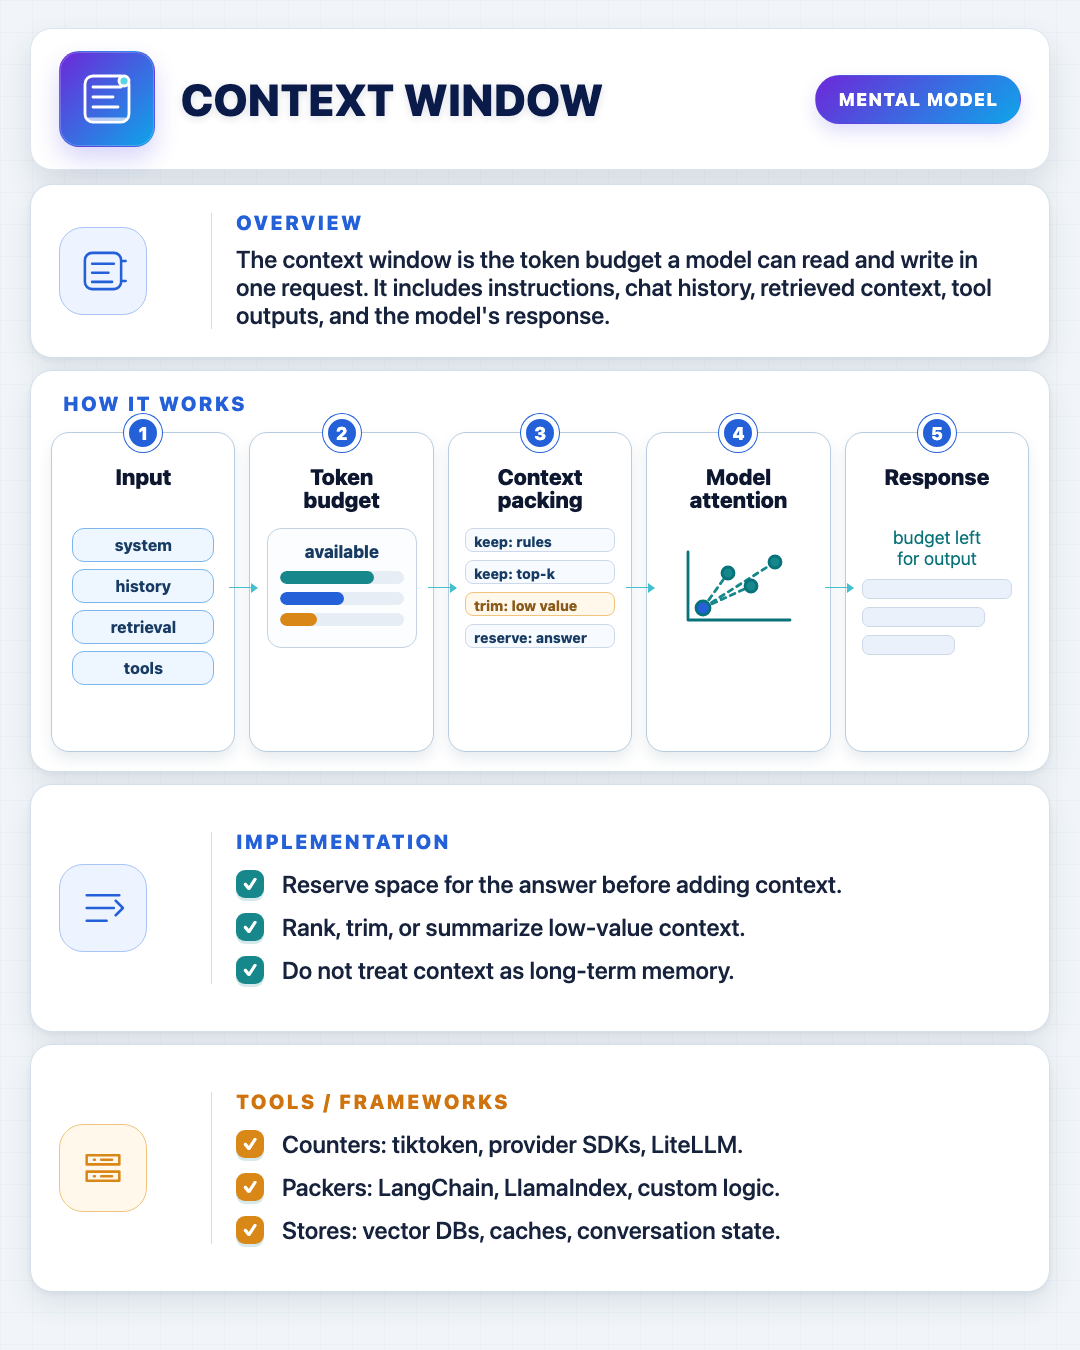
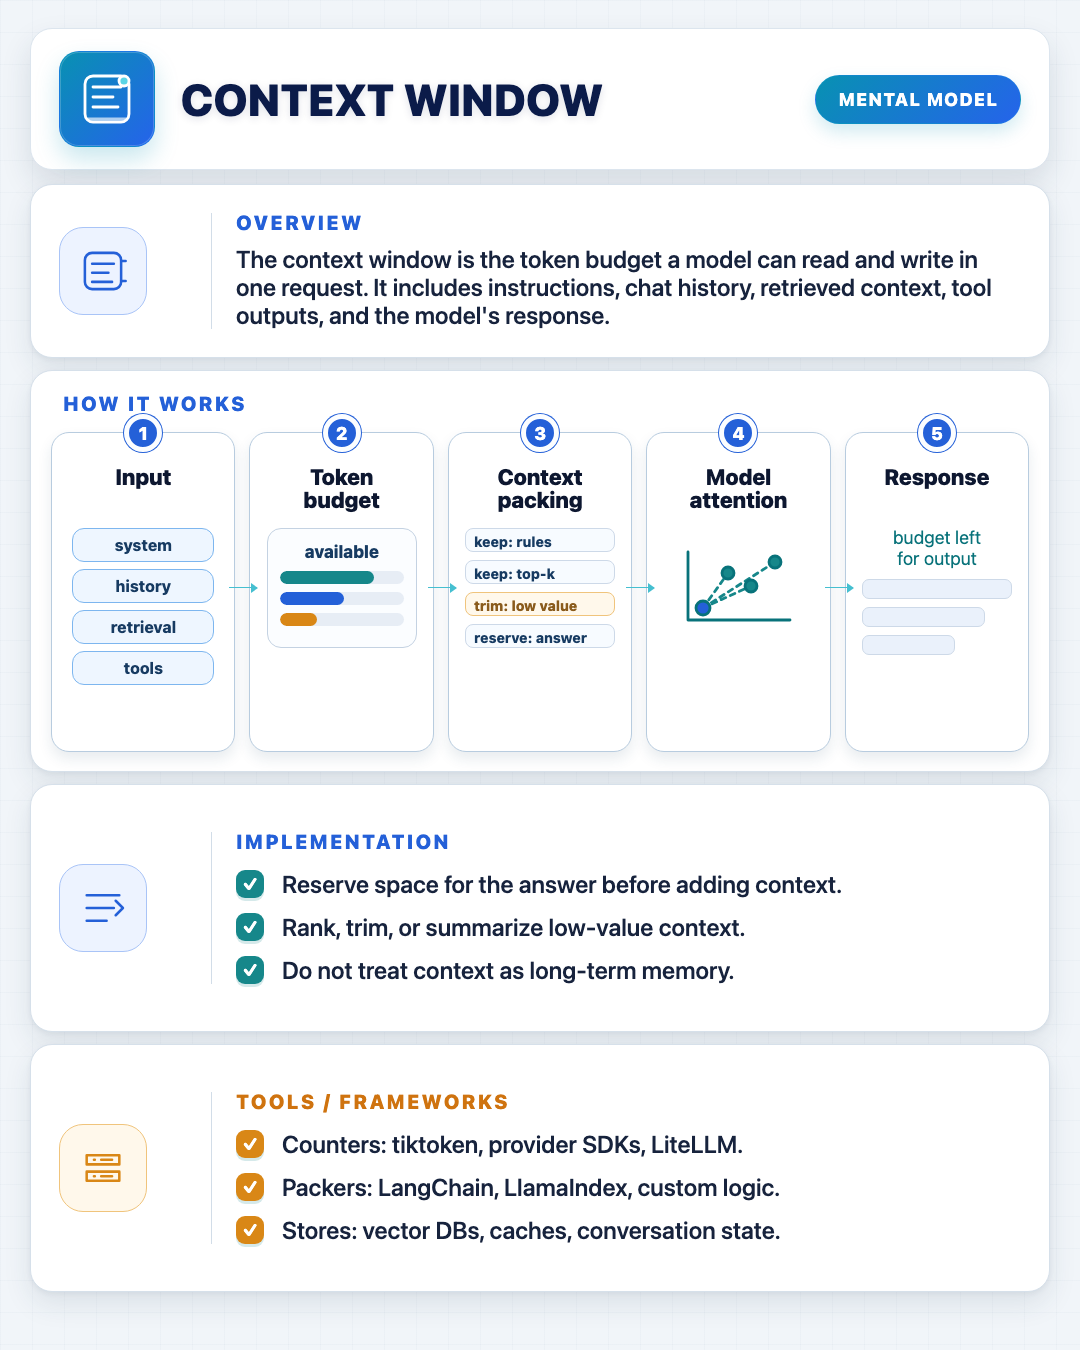
Fix category-based header palettes

Changed region(s): [[0.7333, 0.0311, 0.9472, 0.0933], [0.0306, 0.0311, 0.1528, 0.1244]]

diff --git a/series/ai-engineering-concepts/templates/rag-card.html b/series/ai-engineering-concepts/templates/rag-card.html
@@ -11,10 +11,10 @@
   .card { position: relative; width: 1080px; height: 1350px; padding: 28px 30px; overflow: hidden; background-color: #f1f5f9; background-image: linear-gradient(rgba(24, 78, 119, .022) 1px, transparent 1px), linear-gradient(90deg, rgba(24, 78, 119, .022) 1px, transparent 1px); background-size: 32px 32px; }
   .header, .panel { border: 1px solid #d6e0ea; border-radius: 22px; background: #ffffff; }
   .header { height: 142px; padding: 22px 28px; display: flex; align-items: center; gap: 26px; color: #0d1730; background: #ffffff; border-color: #dce5ee; box-shadow: 0 14px 30px rgba(31, 54, 78, .13), inset 0 1px 0 rgba(255,255,255,.9); }
-  .concept-icon { width: 96px; height: 96px; flex: 0 0 auto; display: grid; place-items: center; border: 1px solid rgba(236,72,153,.24); border-radius: 20px; background: linear-gradient(135deg, #db2777 0%, #f97316 100%); color: #ffffff; box-shadow: 0 12px 24px rgba(219, 39, 119, .22), inset 0 0 0 1px rgba(255,255,255,.20); }
+  .concept-icon { width: 96px; height: 96px; flex: 0 0 auto; display: grid; place-items: center; border: 1px solid rgba(14,165,233,.24); border-radius: 20px; background: linear-gradient(135deg, #0891b2 0%, #2563eb 100%); color: #ffffff; box-shadow: 0 12px 24px rgba(8, 145, 178, .22), inset 0 0 0 1px rgba(255,255,255,.20); }
   .concept-icon svg { width: 72px; height: 72px; }
   h1 { margin: 0; font-size: 52px; line-height: .96; letter-spacing: .01em; font-weight: 850; color: #0b1b49; text-shadow: 0 2px 8px rgba(11,27,73,.12); }
-  .badge { margin-left: auto; padding: 13px 22px; border: 1px solid rgba(236,72,153,.18); border-radius: 999px; color: #ffffff; background: linear-gradient(135deg, #db2777 0%, #f97316 100%); font-size: 18px; font-weight: 800; letter-spacing: .08em; white-space: nowrap; box-shadow: 0 8px 18px rgba(219, 39, 119, .18); }
+  .badge { margin-left: auto; padding: 13px 22px; border: 1px solid rgba(14,165,233,.18); border-radius: 999px; color: #ffffff; background: linear-gradient(135deg, #0891b2 0%, #2563eb 100%); font-size: 18px; font-weight: 800; letter-spacing: .08em; white-space: nowrap; box-shadow: 0 8px 18px rgba(8, 145, 178, .18); }
   .stack { margin-top: 14px; display: grid; gap: 12px; }
   .panel { position: relative; box-shadow: 0 12px 28px rgba(31, 54, 78, .10), 0 2px 5px rgba(31, 54, 78, .06); }
   .section-title { margin: 0; color: #2460d8; font-size: 20px; line-height: 1; font-weight: 850; letter-spacing: .13em; }

diff --git a/series/ai-engineering-concepts/templates/tool-calling-card.html b/series/ai-engineering-concepts/templates/tool-calling-card.html
@@ -11,10 +11,10 @@
   .card { position: relative; width: 1080px; height: 1350px; padding: 28px 30px; overflow: hidden; background-color: #f1f5f9; background-image: linear-gradient(rgba(24, 78, 119, .022) 1px, transparent 1px), linear-gradient(90deg, rgba(24, 78, 119, .022) 1px, transparent 1px); background-size: 32px 32px; }
   .header, .panel { border: 1px solid #d6e0ea; border-radius: 22px; background: #ffffff; }
   .header { height: 142px; padding: 22px 28px; display: flex; align-items: center; gap: 26px; color: #0d1730; background: #ffffff; border-color: #dce5ee; box-shadow: 0 14px 30px rgba(31, 54, 78, .13), inset 0 1px 0 rgba(255,255,255,.9); }
-  .concept-icon { width: 96px; height: 96px; flex: 0 0 auto; display: grid; place-items: center; border: 1px solid rgba(20,184,166,.24); border-radius: 20px; background: linear-gradient(135deg, #0f766e 0%, #10b981 100%); color: #ffffff; box-shadow: 0 12px 24px rgba(15, 118, 110, .22), inset 0 0 0 1px rgba(255,255,255,.20); }
+  .concept-icon { width: 96px; height: 96px; flex: 0 0 auto; display: grid; place-items: center; border: 1px solid rgba(14,165,233,.24); border-radius: 20px; background: linear-gradient(135deg, #0891b2 0%, #2563eb 100%); color: #ffffff; box-shadow: 0 12px 24px rgba(8, 145, 178, .22), inset 0 0 0 1px rgba(255,255,255,.20); }
   .concept-icon svg { width: 72px; height: 72px; }
   h1 { margin: 0; font-size: 46px; line-height: .96; letter-spacing: .01em; font-weight: 850; color: #0b1b49; text-shadow: 0 2px 8px rgba(11,27,73,.12); }
-  .badge { margin-left: auto; padding: 13px 22px; border: 1px solid rgba(20,184,166,.18); border-radius: 999px; color: #ffffff; background: linear-gradient(135deg, #0f766e 0%, #10b981 100%); font-size: 18px; font-weight: 800; letter-spacing: .08em; white-space: nowrap; box-shadow: 0 8px 18px rgba(15, 118, 110, .18); }
+  .badge { margin-left: auto; padding: 13px 22px; border: 1px solid rgba(14,165,233,.18); border-radius: 999px; color: #ffffff; background: linear-gradient(135deg, #0891b2 0%, #2563eb 100%); font-size: 18px; font-weight: 800; letter-spacing: .08em; white-space: nowrap; box-shadow: 0 8px 18px rgba(8, 145, 178, .18); }
   .stack { margin-top: 14px; display: grid; gap: 12px; }
   .panel { position: relative; box-shadow: 0 12px 28px rgba(31, 54, 78, .10), 0 2px 5px rgba(31, 54, 78, .06); }
   .section-title { margin: 0; color: #2460d8; font-size: 20px; line-height: 1; font-weight: 850; letter-spacing: .13em; }

diff --git a/series/ai-engineering-concepts/templates/context-window-card.html b/series/ai-engineering-concepts/templates/context-window-card.html
@@ -11,10 +11,10 @@
   .card { position: relative; width: 1080px; height: 1350px; padding: 28px 30px; overflow: hidden; background-color: #f1f5f9; background-image: linear-gradient(rgba(24, 78, 119, .022) 1px, transparent 1px), linear-gradient(90deg, rgba(24, 78, 119, .022) 1px, transparent 1px); background-size: 32px 32px; }
   .header, .panel { border: 1px solid #d6e0ea; border-radius: 22px; background: #ffffff; }
   .header { height: 142px; padding: 22px 28px; display: flex; align-items: center; gap: 26px; color: #0d1730; background: #ffffff; border-color: #dce5ee; box-shadow: 0 14px 30px rgba(31, 54, 78, .13), inset 0 1px 0 rgba(255,255,255,.9); }
-  .concept-icon { width: 96px; height: 96px; flex: 0 0 auto; display: grid; place-items: center; border: 1px solid rgba(99,102,241,.24); border-radius: 20px; background: linear-gradient(135deg, #6d28d9 0%, #0ea5e9 100%); color: #ffffff; box-shadow: 0 12px 24px rgba(79, 70, 229, .22), inset 0 0 0 1px rgba(255,255,255,.20); }
+  .concept-icon { width: 96px; height: 96px; flex: 0 0 auto; display: grid; place-items: center; border: 1px solid rgba(14,165,233,.24); border-radius: 20px; background: linear-gradient(135deg, #0891b2 0%, #2563eb 100%); color: #ffffff; box-shadow: 0 12px 24px rgba(8, 145, 178, .22), inset 0 0 0 1px rgba(255,255,255,.20); }
   .concept-icon svg { width: 72px; height: 72px; }
   h1 { margin: 0; font-size: 44px; line-height: .96; letter-spacing: .01em; font-weight: 850; color: #0b1b49; text-shadow: 0 2px 8px rgba(11,27,73,.12); }
-  .badge { margin-left: auto; padding: 13px 22px; border: 1px solid rgba(99,102,241,.18); border-radius: 999px; color: #ffffff; background: linear-gradient(135deg, #6d28d9 0%, #0ea5e9 100%); font-size: 18px; font-weight: 800; letter-spacing: .08em; white-space: nowrap; box-shadow: 0 8px 18px rgba(79, 70, 229, .18); }
+  .badge { margin-left: auto; padding: 13px 22px; border: 1px solid rgba(14,165,233,.18); border-radius: 999px; color: #ffffff; background: linear-gradient(135deg, #0891b2 0%, #2563eb 100%); font-size: 18px; font-weight: 800; letter-spacing: .08em; white-space: nowrap; box-shadow: 0 8px 18px rgba(8, 145, 178, .18); }
   .stack { margin-top: 14px; display: grid; gap: 12px; }
   .panel { position: relative; box-shadow: 0 12px 28px rgba(31, 54, 78, .10), 0 2px 5px rgba(31, 54, 78, .06); }
   .section-title { margin: 0; color: #2460d8; font-size: 20px; line-height: 1; font-weight: 850; letter-spacing: .13em; }

diff --git a/series/ai-engineering-concepts/templates/tokenization-card.html b/series/ai-engineering-concepts/templates/tokenization-card.html
@@ -11,10 +11,10 @@
   .card { position: relative; width: 1080px; height: 1350px; padding: 28px 30px; overflow: hidden; background-color: #f1f5f9; background-image: linear-gradient(rgba(24, 78, 119, .022) 1px, transparent 1px), linear-gradient(90deg, rgba(24, 78, 119, .022) 1px, transparent 1px); background-size: 32px 32px; }
   .header, .panel { border: 1px solid #d6e0ea; border-radius: 22px; background: #ffffff; }
   .header { height: 142px; padding: 22px 28px; display: flex; align-items: center; gap: 26px; color: #0d1730; background: #ffffff; border-color: #dce5ee; box-shadow: 0 14px 30px rgba(31, 54, 78, .13), inset 0 1px 0 rgba(255,255,255,.9); }
-  .concept-icon { width: 96px; height: 96px; flex: 0 0 auto; display: grid; place-items: center; border: 1px solid rgba(245,158,11,.24); border-radius: 20px; background: linear-gradient(135deg, #d97706 0%, #f59e0b 100%); color: #ffffff; box-shadow: 0 12px 24px rgba(217, 119, 6, .22), inset 0 0 0 1px rgba(255,255,255,.20); }
+  .concept-icon { width: 96px; height: 96px; flex: 0 0 auto; display: grid; place-items: center; border: 1px solid rgba(14,165,233,.24); border-radius: 20px; background: linear-gradient(135deg, #0891b2 0%, #2563eb 100%); color: #ffffff; box-shadow: 0 12px 24px rgba(8, 145, 178, .22), inset 0 0 0 1px rgba(255,255,255,.20); }
   .concept-icon svg { width: 72px; height: 72px; }
   h1 { margin: 0; font-size: 46px; line-height: .96; letter-spacing: .01em; font-weight: 850; color: #0b1b49; text-shadow: 0 2px 8px rgba(11,27,73,.12); }
-  .badge { margin-left: auto; padding: 13px 22px; border: 1px solid rgba(245,158,11,.18); border-radius: 999px; color: #ffffff; background: linear-gradient(135deg, #d97706 0%, #f59e0b 100%); font-size: 18px; font-weight: 800; letter-spacing: .08em; white-space: nowrap; box-shadow: 0 8px 18px rgba(217, 119, 6, .18); }
+  .badge { margin-left: auto; padding: 13px 22px; border: 1px solid rgba(14,165,233,.18); border-radius: 999px; color: #ffffff; background: linear-gradient(135deg, #0891b2 0%, #2563eb 100%); font-size: 18px; font-weight: 800; letter-spacing: .08em; white-space: nowrap; box-shadow: 0 8px 18px rgba(8, 145, 178, .18); }
   .stack { margin-top: 14px; display: grid; gap: 12px; }
   .panel { position: relative; box-shadow: 0 12px 28px rgba(31, 54, 78, .10), 0 2px 5px rgba(31, 54, 78, .06); }
   .section-title { margin: 0; color: #2460d8; font-size: 20px; line-height: 1; font-weight: 850; letter-spacing: .13em; }

diff --git a/series/ai-engineering-concepts/templates/context-engineering-card.html b/series/ai-engineering-concepts/templates/context-engineering-card.html
@@ -47,11 +47,11 @@
     flex: 0 0 auto;
     display: grid;
     place-items: center;
-    border: 1px solid rgba(99,102,241,.24);
+    border: 1px solid rgba(20,184,166,.24);
     border-radius: 20px;
-    background: linear-gradient(135deg, #6d28d9 0%, #0ea5e9 100%);
+    background: linear-gradient(135deg, #0f766e 0%, #10b981 100%);
     color: #ffffff;
-    box-shadow: 0 12px 24px rgba(79, 70, 229, .22), inset 0 0 0 1px rgba(255,255,255,.20);
+    box-shadow: 0 12px 24px rgba(15, 118, 110, .22), inset 0 0 0 1px rgba(255,255,255,.20);
   }
   .concept-icon svg { width: 72px; height: 72px; }
   h1 {
@@ -66,15 +66,15 @@
   .badge {
     margin-left: auto;
     padding: 13px 22px;
-    border: 1px solid rgba(99,102,241,.18);
+    border: 1px solid rgba(20,184,166,.18);
     border-radius: 999px;
     color: #ffffff;
-    background: linear-gradient(135deg, #6d28d9 0%, #0ea5e9 100%);
+    background: linear-gradient(135deg, #0f766e 0%, #10b981 100%);
     font-size: 18px;
     font-weight: 800;
     letter-spacing: .08em;
     white-space: nowrap;
-    box-shadow: 0 8px 18px rgba(79, 70, 229, .18);
+    box-shadow: 0 8px 18px rgba(15, 118, 110, .18);
   }
   .stack { margin-top: 14px; display: grid; gap: 12px; }
   .panel {

diff --git a/series/ai-engineering-concepts/templates/structured-outputs-card.html b/series/ai-engineering-concepts/templates/structured-outputs-card.html
@@ -47,11 +47,11 @@
     flex: 0 0 auto;
     display: grid;
     place-items: center;
-    border: 1px solid rgba(14,165,233,.24);
+    border: 1px solid rgba(20,184,166,.24);
     border-radius: 20px;
-    background: linear-gradient(135deg, #0891b2 0%, #2563eb 100%);
+    background: linear-gradient(135deg, #0f766e 0%, #10b981 100%);
     color: #ffffff;
-    box-shadow: 0 12px 24px rgba(8, 145, 178, .22), inset 0 0 0 1px rgba(255,255,255,.20);
+    box-shadow: 0 12px 24px rgba(15, 118, 110, .22), inset 0 0 0 1px rgba(255,255,255,.20);
   }
   .concept-icon svg { width: 72px; height: 72px; }
   h1 {
@@ -66,15 +66,15 @@
   .badge {
     margin-left: auto;
     padding: 13px 22px;
-    border: 1px solid rgba(14,165,233,.18);
+    border: 1px solid rgba(20,184,166,.18);
     border-radius: 999px;
     color: #ffffff;
-    background: linear-gradient(135deg, #0891b2 0%, #2563eb 100%);
+    background: linear-gradient(135deg, #0f766e 0%, #10b981 100%);
     font-size: 18px;
     font-weight: 800;
     letter-spacing: .08em;
     white-space: nowrap;
-    box-shadow: 0 8px 18px rgba(8, 145, 178, .18);
+    box-shadow: 0 8px 18px rgba(15, 118, 110, .18);
   }
   .stack { margin-top: 14px; display: grid; gap: 12px; }
   .panel {

diff --git a/series/ai-engineering-concepts/rules.md b/series/ai-engineering-concepts/rules.md
@@ -163,8 +163,16 @@ The design must look modern, sharp, and calm. It should attract attention withou
 Recommended visual treatment:
 
 - Use a soft light editorial canvas with white or near-white content bands, subtle cool-gray borders, modest corner rounding, and soft layered shadows.
-- Use a bright white header band as the series signature, with a gradient blue/purple concept icon tile, a compact blue type badge, and dark navy title text.
-- When multiple cards are produced in the same batch, vary the header accent palette by concept or category so the series is easier to scan as a set. Keep the icon tile and type badge on the same accent family, and avoid repeating the same header gradient across adjacent cards.
+- Use a bright white header band as the series signature, with a concept icon tile, a compact type badge, and dark navy title text.
+- Use one fixed header color palette per card category. All `Mental Model` cards should share the same header palette, all `Implementation` cards should share another, and so on. Do not vary the header by concept within the same category.
+- Recommended category header palettes:
+  - `Mental Model`: blue/cyan
+  - `Implementation`: teal/green
+  - `Tooling Map`: indigo/violet
+  - `Production Checks`: amber/orange
+  - `Eval Pattern`: purple/blue
+  - `Security Pattern`: rose/red
+  - `Framework Notes`: cyan/indigo
 - Keep the main title compact, generally around `44-48px` for short one-line titles on a `1080px` card, so the header breathes; supporting copy and checklist text should be larger and more readable than decorative labels.
 - Give each section a distinct visual role: overview = editorial summary, how it works = diagram stage, implementation = action checklist, tools/frameworks = practical ecosystem checklist.
 - Do not add vertical accent bars to panel edges; section color should come from headings, icons, badges, checks, borders, and diagram elements.
